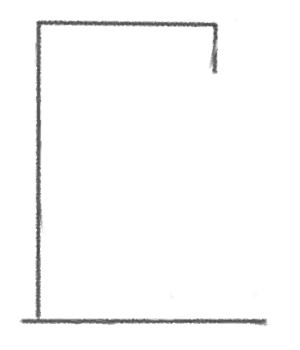
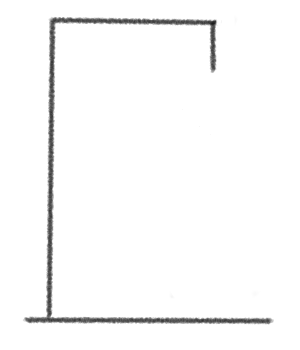
improve hangman images

Changed region(s): [[0.06, 0.0286, 0.93, 0.9429]]

diff --git a/public/style.css b/public/style.css
@@ -76,11 +76,26 @@ a, a:visited {
 #messagediv, #hintdiv {
   min-height: 80px;
 }
+#hintdiv {
+  display: inline-block;
+  min-width: 40%;
+  vertical-align: middle;
+  text-align: center;
+}
 #picdiv {
   min-height: 310px;
+  display: inline-block;
+  position: relative;
+  vertical-align: middle;
+  width: 40%;
 }
 #hangman-body form {
   display: inline;
+}
+.scaffold {
+  position: absolute;
+  left: 25%;
+
 }
 
 /* caesar cipher */

diff --git a/app.rb b/app.rb
@@ -46,7 +46,7 @@ post '/word_input' do
   erb :hangman_index
 end
 
-post '/choose_word' do
+get '/choose_word' do
   session[:intro] = true
   intro_session
   @message = "type a word to play with your friend (close your eyes, friend)"
